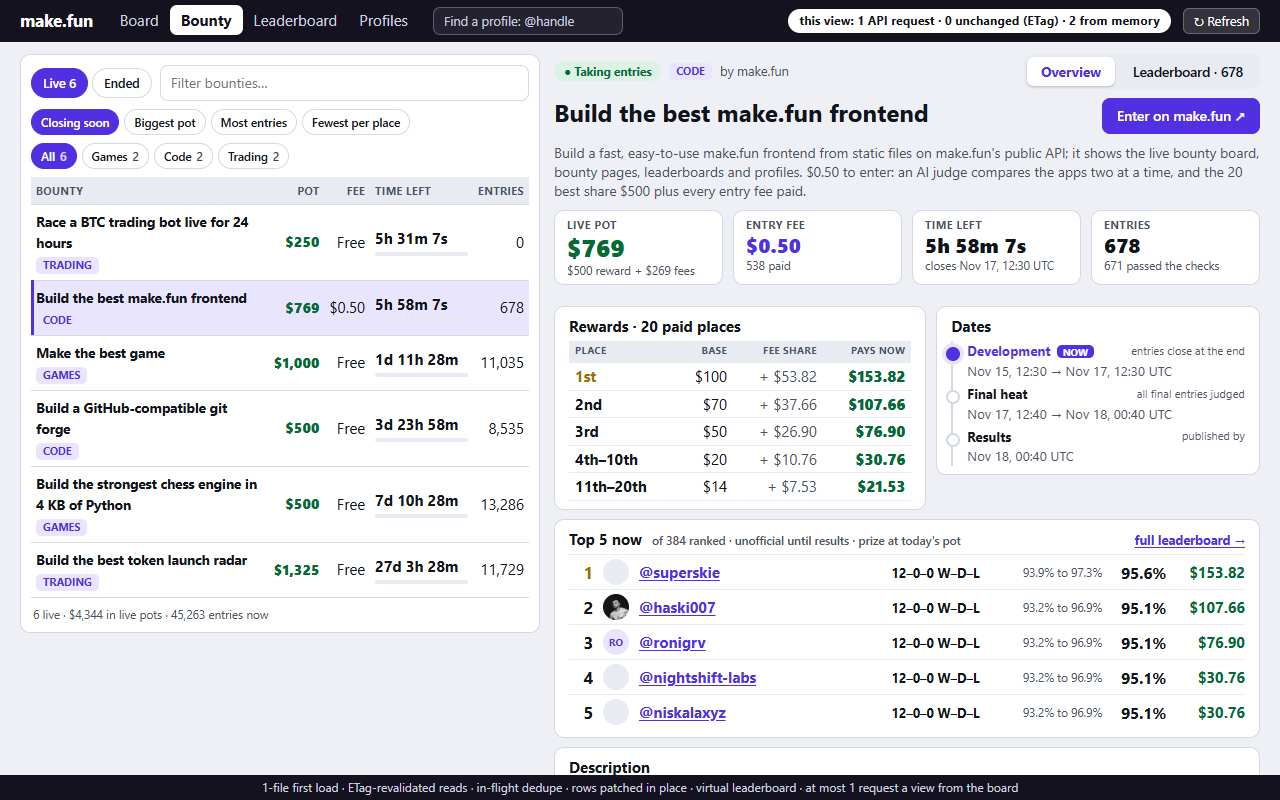
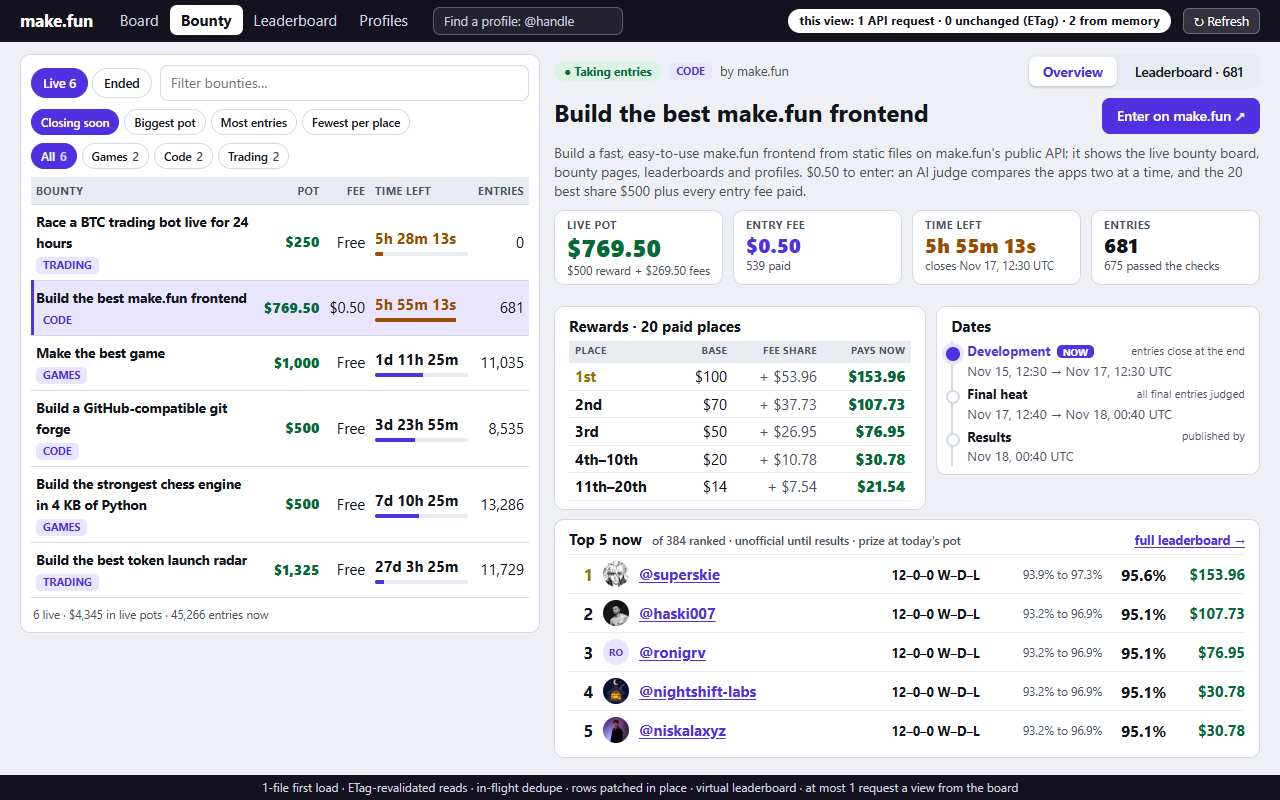
style(bounty): cover ends on whole panels; screenshots retaken one tab at a time
Top-5 rows get more air and the description panel starts below the fold, so
nothing on the cover is half cut. Shots are taken sequentially (a background
tab skips the countdown tick and lazy avatars) and shot 2 inside one minute.

diff --git a/app/bounty.js b/app/bounty.js
@@ -185,7 +185,7 @@ function buildBountyLayout(slug) {
       el('dl', { className: 'stat-row' }, view.pot.node, view.fee.node, view.time.node, view.entries.node),
       el('div', { className: 'bounty-split' }, panel(view.rewardsTitle, el('table', { className: 'rewards-table' }, el('caption', { className: 'visually-hidden' }, 'Rewards by place, live pot'), el('thead', null, el('tr', null, ['Place', 'Base', 'Fee share', 'Pays now'].map((label) => el('th', { scope: 'col' }, label)))), view.rewards)), panel('Dates', view.dates)),
       panel(el('h2', { className: 'top-title' }, 'Top 5 now', view.topNote, el('a', { className: 'small', href: leaderboardHref(slug) }, 'full leaderboard →')), view.topList),
-      panel('Description', view.skills, view.description),
+      el('section', { className: 'panel description-panel' }, el('h2', null, 'Description'), view.skills, view.description),
       view.rulesPanel,
     ),
   );
@@ -298,6 +298,7 @@ adoptViewStyles(`
 .bounty-detail .stat-pot .stat-value{font-size:1.6rem}
 .bounty-detail .panel{padding:8px 14px}
 .bounty-detail .panel h2{margin-bottom:4px}
+.description-panel{margin-top:14px}
 .top-title{display:flex;align-items:baseline;gap:10px}
 .top-note{flex:1;font-weight:500;font-size:.78rem}
 .bounty-title{display:flex;align-items:flex-start;justify-content:space-between;gap:12px}
@@ -326,7 +327,7 @@ adoptViewStyles(`
 .timeline span{color:var(--muted);font-variant-numeric:tabular-nums}
 
 .top-list{list-style:none;margin:0;padding:0;display:grid}
-.top-list li{display:grid;grid-template-columns:1.6rem 26px minmax(0,1fr) auto auto 3.6rem 4.6rem;align-items:center;gap:10px;padding:4px 0;border-top:1px solid var(--surface-2)}
+.top-list li{display:grid;grid-template-columns:1.6rem 26px minmax(0,1fr) auto auto 3.6rem 4.6rem;align-items:center;gap:10px;padding:6px 0;border-top:1px solid var(--surface-2)}
 .top-rank{font-size:1.1rem;text-align:right}
 .top-list li:first-child .top-rank{color:var(--gold)}
 .top-who{display:flex;align-items:baseline;gap:8px;min-width:0}
